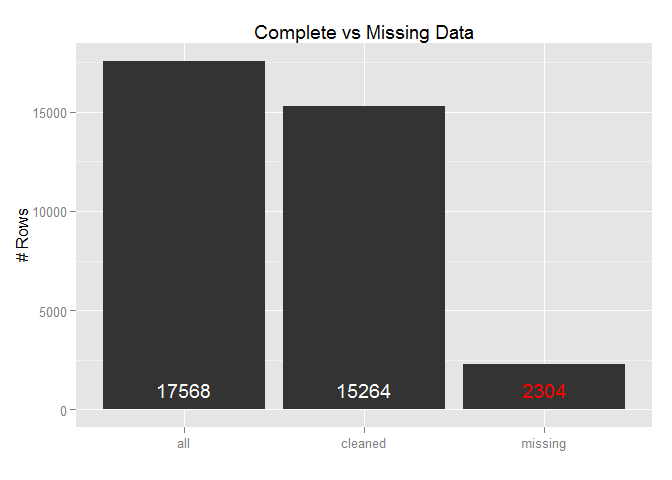
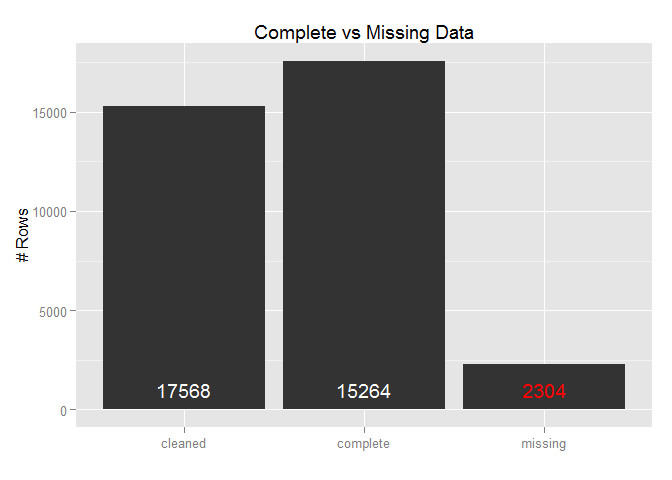
Added calculation for weekday/weekend.

Changed region(s): [[0.1562, 0.125, 0.6875, 0.2188], [0.5, 0.9062, 0.5938, 0.9375], [0.25, 0.9062, 0.3125, 0.9375]]

diff --git a/PA1_template.html b/PA1_template.html
@@ -168,13 +168,13 @@ print(g)</code></pre>
 cleanedCount &lt;- nrow(data2)
 missingCount &lt;- allCount - cleanedCount
 
-missingSummary &lt;- data.frame(set = c('all', 'cleaned', 'missing'), count = c(allCount, cleanedCount, missingCount))
+missingSummary &lt;- data.frame(set = c('complete', 'cleaned', 'missing'), count = c(allCount, cleanedCount, missingCount))
 
 qplot(missingSummary, x=missingSummary$set, y=missingSummary$count, geom='bar', stat='identity', main='Complete vs Missing Data', xlab='', ylab='# Rows') +
 geom_text(aes(1, 1000, label=allCount), col='white', show_guide=FALSE) +
 geom_text(aes(2, 1000, label=cleanedCount), col='white', show_guide=FALSE) +
 geom_text(aes(3, 1000, label=missingCount), col='red', show_guide=FALSE)</code></pre>
[2 lines of base64/hex data omitted]
 <pre><code>all 17568
 cleaned 15264
 missing 2304</code></pre>
@@ -229,6 +229,18 @@ grid.arrange(g1, g2, ncol=2)</code></pre>
 <p>As you can see in the side-by-side plots, the mean and median values remain the same. In fact, the only difference between the original data and the data with missing values replaced, is the overall frequency (ie., number of observations). This can be seen in the center tallest bar, which has grown from about 27 to 36.</p>
 <div id="are-there-differences-in-activity-patterns-between-weekdays-and-weekends" class="section level2">
 <h2>Are there differences in activity patterns between weekdays and weekends?</h2>
+<p>We’ll use the newly created dataset, containing filled-in values for the missing NA fields. We’ll add a new factor column to our dataset to indicate whether a date is a weekday or a weekend. We can do this with the following code:</p>
+<pre class="r"><code># Create a factor to indicate weekday (1) or weekend (2).
+dayOfWeek &lt;- factor(c(1:2), labels = c('weekday', 'weekend'))
+
+# Setup the call to weekdays() to check if a date is a weekend.
+dayOfWeekAbbr &lt;- seq(Sys.Date()-10, Sys.Date(), by = 1)
+
+# Add the new column to the dataset, default to weekday.
+data3 &lt;- cbind(data3, dayofweek = dayOfWeek[1])
+
+# Find the list of rows that match a weekend (Sat, Sun) and set the dayofweek column to weekend.
+data3[grepl(&quot;Sat|Sun&quot;, weekdays(as.Date(data3$date))),]$dayofweek &lt;- dayOfWeek[2]</code></pre>
 </div>
 </div>
 

diff --git a/PA1_template.md b/PA1_template.md
@@ -139,7 +139,7 @@ allCount <- nrow(data)
 cleanedCount <- nrow(data2)
 missingCount <- allCount - cleanedCount
 
-missingSummary <- data.frame(set = c('all', 'cleaned', 'missing'), count = c(allCount, cleanedCount, missingCount))
+missingSummary <- data.frame(set = c('complete', 'cleaned', 'missing'), count = c(allCount, cleanedCount, missingCount))
 
 qplot(missingSummary, x=missingSummary$set, y=missingSummary$count, geom='bar', stat='identity', main='Complete vs Missing Data', xlab='', ylab='# Rows') +
 geom_text(aes(1, 1000, label=allCount), col='white', show_guide=FALSE) +
@@ -220,3 +220,21 @@ As you can see in the side-by-side plots, the mean and median values remain the 
 
 
 ## Are there differences in activity patterns between weekdays and weekends?
+
+We'll use the newly created dataset, containing filled-in values for the missing NA fields. We'll add a new factor column to our dataset to indicate whether a date is a weekday or a weekend. We can do this with the following code:
+
+
+```r
+# Create a factor to indicate weekday (1) or weekend (2).
+dayOfWeek <- factor(c(1:2), labels = c('weekday', 'weekend'))
+
+# Setup the call to weekdays() to check if a date is a weekend.
+dayOfWeekAbbr <- seq(Sys.Date()-10, Sys.Date(), by = 1)
+
+# Add the new column to the dataset, default to weekday.
+data3 <- cbind(data3, dayofweek = dayOfWeek[1])
+
+# Find the list of rows that match a weekend (Sat, Sun) and set the dayofweek column to weekend.
+data3[grepl("Sat|Sun", weekdays(as.Date(data3$date))),]$dayofweek <- dayOfWeek[2]
+```
+
